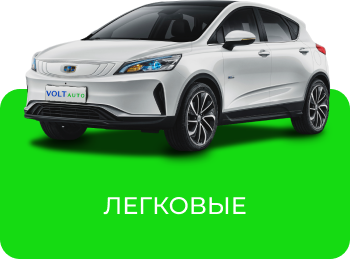
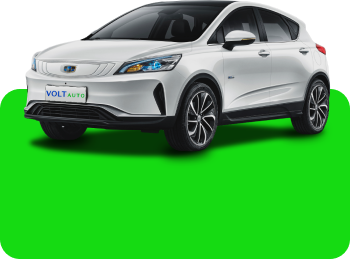
Voltavto. Make text on the image in We Offers block

Changed region(s): [[0.2857, 0.7413, 0.7143, 0.834]]

diff --git a/Projects/Voltavto/index.html b/Projects/Voltavto/index.html
@@ -113,14 +113,17 @@
                         <a href="#" class="offer">
                             <div class="offer__bg green"></div>
                             <img src="image/Offer1.png" alt="Легковые">
+                            <p class="offer__linkTitle">Легковые</p>
                         </a>
                         <a href="#" class="offer">
                             <div class="offer__bg black"></div>
                             <img src="image/Offer2.png" alt="Премиум">
+                            <p class="offer__linkTitle">Премиум</p>
                         </a>
                         <a href="#" class="offer">
                             <div class="offer__bg blue"></div>
                             <img src="image/Offer3.png" alt="Коммерческие">
+                            <p class="offer__linkTitle">Коммерческие</p>
                         </a>
                     </div>
                 </div>

diff --git a/Projects/Voltavto/styles/scss/_components.scss b/Projects/Voltavto/styles/scss/_components.scss
@@ -73,6 +73,15 @@
                     z-index: -1;
                     transition: height .2s linear;
                 }
+                .offer__linkTitle{
+                    position: absolute;
+                    bottom: 40px;
+                    color: $textColor1;
+                    font-size: 24px;
+                    text-transform: uppercase;
+                    left: 50%;
+                    transform: translateX(-50%);
+                }
                 .green{
                     background-color: $mainColor3;
                 }
@@ -599,6 +608,10 @@
                     .offer__bg{
                         height: 100%;
                         border-radius: 0;
+                    }
+                    .offer__linkTitle{
+                        font-size: calc(7px + 7 * ((100vw - 300px) / (575 - 300)));
+                        bottom: calc(7px + 13 * ((100vw - 300px) / (575 - 300)));
                     }
                 }
             }

diff --git a/Projects/Voltavto/styles/css/style.css b/Projects/Voltavto/styles/css/style.css
@@ -452,6 +452,17 @@ path {
   -o-transition: height 0.2s linear;
   transition: height 0.2s linear;
 }
+.components .weOffer .offers .offer .offer__linkTitle {
+  position: absolute;
+  bottom: 40px;
+  color: #fff;
+  font-size: 24px;
+  text-transform: uppercase;
+  left: 50%;
+  -webkit-transform: translateX(-50%);
+      -ms-transform: translateX(-50%);
+          transform: translateX(-50%);
+}
 .components .weOffer .offers .offer .green {
   background-color: #15DB12;
 }
@@ -1033,6 +1044,10 @@ path {
   .components .weOffer .offers .offer .offer__bg {
     height: 100%;
     border-radius: 0;
+  }
+  .components .weOffer .offers .offer .offer__linkTitle {
+    font-size: calc(7px + 7 * ((100vw - 300px) / (575 - 300)));
+    bottom: calc(7px + 13 * ((100vw - 300px) / (575 - 300)));
   }
   .components .specialOffer {
     -webkit-box-orient: vertical;

diff --git a/Projects/Voltavto/styles/js/index.js b/Projects/Voltavto/styles/js/index.js
@@ -72,7 +72,6 @@ $(document).ready(function () {
     });
     $(".statusClouse").click(function () {
         $(".leftBar").removeClass('closeBar');
-        console.log("1")
     });
     $(".statusOpen").click(function () {
         $(".leftBar").addClass('closeBar');
